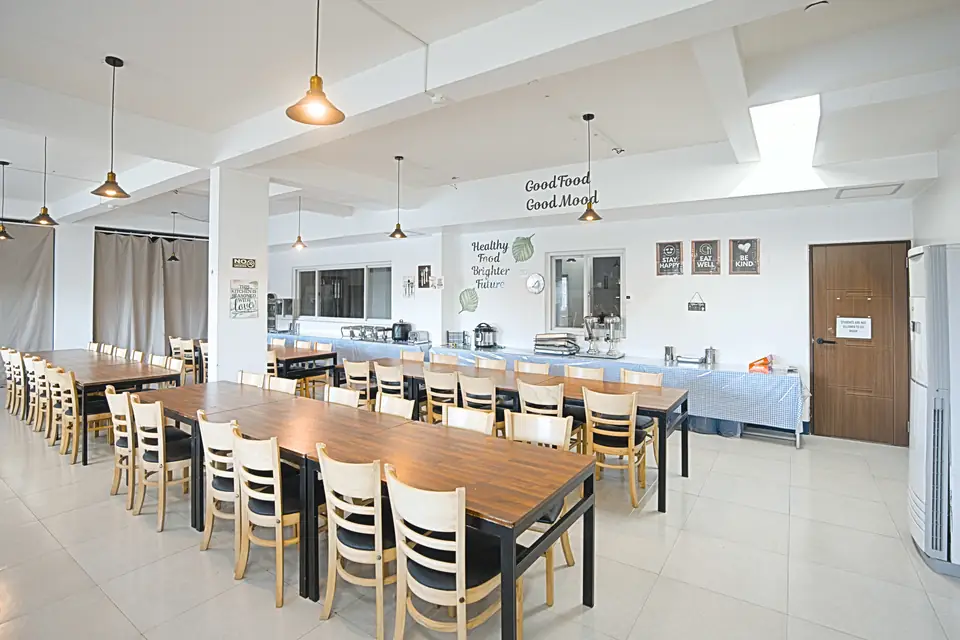
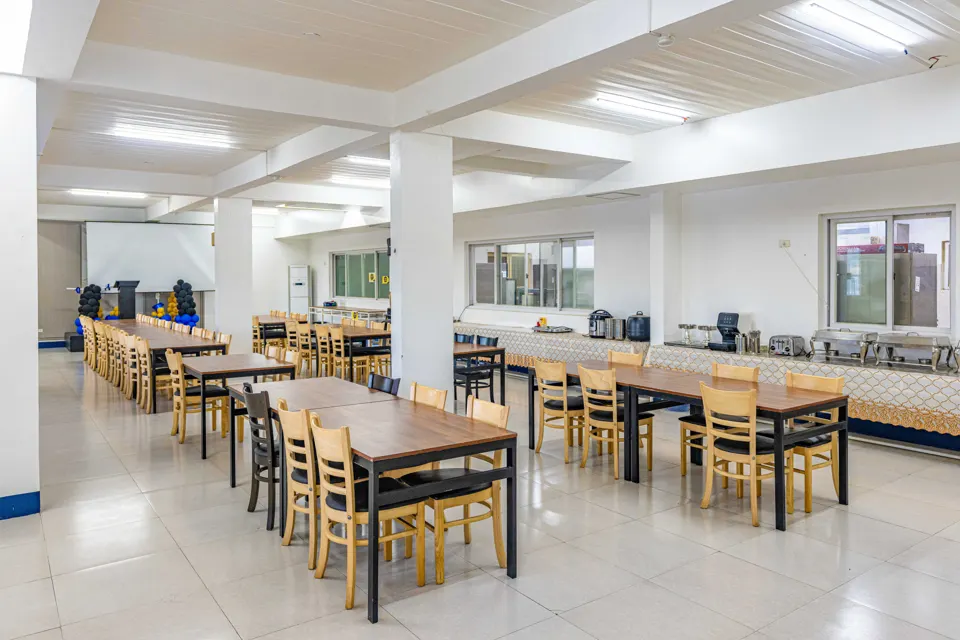
site: 겨울캠프: 첫 화면 요약 삭제·시크릿 특가 크게·선착순 30명, 숙소·식당 9월 새 사진, 액티비티 10곳(바베큐 빼고 사파리·알파 에비에이션 등), 문구 수정

diff --git a/winter-special/index.html b/winter-special/index.html
@@ -14,7 +14,7 @@
 <meta property="og:type" content="website">
 <link href="/media/core/favicon/75e134aa1716492e82ec588f702c37cd.png" rel="icon">
 <link rel="preload" as="image" href="/media/winter/hero-960.webp" imagesrcset="/media/winter/hero-960.webp 960w, /media/winter/hero.webp 1600w" imagesizes="100vw" fetchpriority="high">
-<link rel="stylesheet" href="/static/css/winter.css?v=20261114a">
+<link rel="stylesheet" href="/static/css/winter.css?v=20261115a">
 </head>
 <body>
 <header class="top"><a class="logo" href="/" aria-label="JH 아시아링크 홈"><img src="/static/images/logo.svg" alt="JH 아시아링크" width="44" height="44"><span>JH 아시아링크</span></a>
@@ -26,9 +26,8 @@
 <div class="hero-in">
 <h1>몇 번 안 남은 방학,<br>이번에도 그냥<br class="m"> 보내실 건가요?</h1>
 <p class="hero-lead">이번 겨울방학, 영어만이라도 확실하게.<br><b>1:1 밀착 영어캠프</b></p>
-<p class="hero-price">4주 <s>400만 원</s> <b>369만 원</b><span>2주 <s>240만 원</s> <b>219만 원</b></span></p>
-<p class="hero-facts">하루 7교시 중 1:1 4교시 · 2·4·6·8주 · 인솔 교사 동행</p>
-<p class="hero-hurry">소수정예라 선착순 마감 · <b>12월 6일 신청 마감</b></p>
+<p class="hero-price sp"><em>시크릿 특가</em><span class="row">4주 <s>400만 원</s> <b>369만 원</b></span><span class="row">2주 <s>240만 원</s> <b>219만 원</b></span></p>
+<p class="hero-hurry">선착순 30명 마감 · <b>12월 6일 신청 마감</b></p>
 <a class="btn btn-gold" href="#apply">맞춤 컨설턴트 영어캠프 코스 상담</a>
 <p class="hero-note">맞춤 컨설턴트가 24시간 이내 전화드려 상담해 드립니다</p>
 </div>
@@ -57,14 +56,14 @@
 <div class="reasons">
 <div><h3>유학원을 거치지 않아요</h3><p>대부분의 필리핀 캠프는 한국 유학원이 학생을 모아 현지 어학원에 보내요. 그 사이에 수수료가 붙어요. JH 아시아링크는 한국 사무실과 필리핀 캠퍼스를 저희가 직접 운영해요. 학부모님과 저희가 바로 계약하니 중간 수수료가 없어요.</p></div>
 <div><h3>캠퍼스를 저희가 직접 운영해요</h3><p>호텔이나 남의 건물을 빌려 여는 캠프와 달리, 수업·숙소·식사·생활 관리가 저희 건물 안에서 저희 손으로 이뤄져요.</p></div>
-<div><h3>소수정예라 군더더기가 없어요</h3><p>학생 수를 늘리는 대신 정원을 작게 두고, 그만큼 1:1 수업 시간을 늘렸어요.</p></div>
+<div><h3>소수정예라 한 명 한 명 집중 케어해요</h3><p>정원을 작게 두어 선생님과 매니저가 아이 한 명 한 명의 수업과 생활을 직접 챙겨요.</p></div>
 </div>
 </section>
 
 <section class="ch navy" id="class">
 <h2>1:1 수업만 하루 4시간</h2>
-<p class="big">1교시 50분 · 하루 7교시 · 그중 1:1이 4교시</p>
-<p>그룹 수업에서는 아이가 하루에 직접 말하는 시간이 몇 분 되지 않아요. 저희는 하루 200분을 선생님과 마주 앉아 말해요.</p>
+<p class="big">1:1만 4교시 · 1교시 50분</p>
+<p>그룹 수업에서는 아이가 하루에 직접 말하는 시간이 몇 분 되지 않아요.<br>저희는 하루 200분을 선생님과 마주 앉아 말해요.</p>
 <div class="split"><img src="/media/winter/one1.webp" alt="1:1 수업 교실" width="960" height="1440" loading="lazy" decoding="async">
 <ul class="plain">
 <li><b>말하는 시간이 다릅니다</b>수업 시간 내내 아이가 말해요. 다른 친구 차례를 기다릴 일이 없어요.</li>
@@ -153,9 +152,11 @@
 <h3>숙소는 어떤가요?</h3>
 <p>4인실과 2인실이 있어요. 빨래와 청소는 저희가 해 드려서 아이는 공부와 생활에만 신경 쓰면 돼요.</p>
 <div class="two"><img src="/media/winter/room4.webp" alt="4인실" width="960" height="640" loading="lazy" decoding="async"><img src="/media/winter/room2.webp" alt="2인실" width="960" height="640" loading="lazy" decoding="async"></div>
+<div class="two"><img src="/media/winter/room4b.webp" alt="4인실" width="960" height="640" loading="lazy" decoding="async"><img src="/media/winter/bath.webp" alt="방마다 있는 욕실" width="960" height="640" loading="lazy" decoding="async"></div>
 <h3>밥은 어떻게 먹나요?</h3>
 <p>캠퍼스 식당에서 세 끼를 먹고, 평일 저녁엔 간식도 나와요. 아래는 2026 여름캠프 때 실제로 나간 식단이에요.</p>
-<div class="two"><img src="/media/winter/dining.webp" alt="식당" width="960" height="640" loading="lazy" decoding="async"><img src="/media/winter/meal1.webp" alt="실제 식단" width="960" height="720" loading="lazy" decoding="async"></div>
+<div class="two"><img src="/media/winter/dining.webp" alt="식당" width="960" height="640" loading="lazy" decoding="async"><img src="/media/winter/dining2.webp" alt="식당" width="960" height="640" loading="lazy" decoding="async"></div>
+<div class="two"><img src="/media/winter/meal1.webp" alt="실제 식단" width="960" height="720" loading="lazy" decoding="async"><img src="/media/winter/meal4.webp" alt="실제 식단" width="960" height="1280" loading="lazy" decoding="async"></div>
 <div class="two"><img src="/media/winter/meal2.webp" alt="실제 식단" width="960" height="720" loading="lazy" decoding="async"><img src="/media/winter/meal3.webp" alt="실제 식단" width="960" height="1280" loading="lazy" decoding="async"></div>
 <h3>쉬는 시간엔 뭘 하나요?</h3>
 <p>교내 수영장에서 놀고, 매점에서 간식을 사 먹고, 놀이방에서 친구들과 어울려요. 저녁에는 자습실에서 그날 배운 단어를 외워요.</p>
@@ -178,7 +179,7 @@
 <div><dt>야간 감지 CCTV</dt><dd>밤에는 움직임이 잡히면 바로 경고음이 울려요.</dd></div>
 <div><dt>상주 인력</dt><dd>현지 직원과 한국인 매니저가 건물에 늘 함께 있어요.</dd></div>
 </dl>
-<p class="statement">문을 연 뒤 지금까지, 침입자는 단 한 번도 없었어요.</p>
+<p class="statement">문을 연 뒤 지금까지,<br>사건 사고는 단 한 번도 없었어요.</p>
 <img src="/media/winter/ext.webp" alt="캠퍼스 건물 외관" width="960" height="1440" loading="lazy" decoding="async" class="tall">
 </section>
 
@@ -208,14 +209,18 @@
 
 <section class="ch navy" id="saturday">
 <h2>토요일은 액티비티 하는 날<br>매주 다른 곳으로 떠나요</h2>
-<p>평일에 열심히 공부한 아이들은 토요일마다 밖으로 나가요. 교실에서 배운 영어를 직접 주문하고, 묻고, 대답하며 써 보는 날이기도 해요. 아래는 2026 캠프에서 실제로 다녀온 곳이에요.</p>
+<p>평일에 열심히 공부한 아이들은 토요일마다 밖으로 나가요. 교실에서 배운 영어를 직접 주문하고, 묻고, 대답하며 써 보는 날이기도 해요. 아래는 캠프 때 다니는 곳이에요.</p>
 <div class="acts">
-<figure class="act"><img src="/media/winter/yacht1.webp" alt="수빅 바다 요트 투어" width="960" height="720" loading="lazy" decoding="async"><figcaption><b>수빅 바다 요트 투어</b>수빅만 바다로 나가 요트를 타고 바다에 들어가 놀아요.</figcaption></figure>
-<figure class="act"><img src="/media/winter/aqua1.webp" alt="아쿠아플래닛 워터파크" width="960" height="720" loading="lazy" decoding="async"><figcaption><b>아쿠아플래닛 워터파크</b>클락의 큰 워터파크에서 하루 종일 놀아요.</figcaption></figure>
-<figure class="act"><img src="/media/winter/safari1.webp" alt="사파리 · 공룡 테마파크" width="960" height="720" loading="lazy" decoding="async"><figcaption><b>사파리 · 공룡 테마파크</b>동물을 가까이서 보고 공룡 테마파크를 둘러봐요.</figcaption></figure>
+<figure class="act"><img src="/media/winter/yacht1.webp" alt="수빅 요트 투어" width="960" height="720" loading="lazy" decoding="async"><figcaption><b>수빅 요트 투어</b>수빅만 바다로 나가 요트를 타고 바다에 들어가 놀아요.</figcaption></figure>
+<figure class="act"><img src="/media/winter/aqua1.webp" alt="클락 아쿠아플래닛" width="960" height="720" loading="lazy" decoding="async"><figcaption><b>클락 아쿠아플래닛</b>필리핀에서 가장 큰 워터파크에서 하루 종일 놀아요.</figcaption></figure>
+<figure class="act"><img src="/media/winter/a-safari.webp" alt="클락 사파리" width="500" height="600" loading="lazy" decoding="async"><figcaption><b>클락 사파리</b>기린, 사자 같은 동물을 가까이서 만나요.</figcaption></figure>
+<figure class="act"><img src="/media/winter/safari1.webp" alt="공룡 테마파크" width="960" height="720" loading="lazy" decoding="async"><figcaption><b>공룡 테마파크</b>사파리와 함께 공룡 테마파크도 둘러봐요.</figcaption></figure>
+<figure class="act"><img src="/media/winter/a-alpha.webp" alt="알파 에비에이션" width="500" height="500" loading="lazy" decoding="async"><figcaption><b>알파 에비에이션</b>클락 공항 안 비행 시뮬레이터로 조종사가 돼 봐요.</figcaption></figure>
+<figure class="act"><img src="/media/winter/a-sandbox.webp" alt="클락 샌드박스" width="960" height="640" loading="lazy" decoding="async"><figcaption><b>클락 샌드박스</b>짚라인과 로프 코스로 몸을 쓰며 놀아요.</figcaption></figure>
+<figure class="act"><img src="/media/winter/a-horse.webp" alt="엘 카바요 승마" width="500" height="500" loading="lazy" decoding="async"><figcaption><b>엘 카바요 승마</b>서부 마을 같은 곳에서 말을 타 봐요.</figcaption></figure>
+<figure class="act"><img src="/media/winter/a-forest.webp" alt="앙헬레스 포레스트 카페" width="500" height="500" loading="lazy" decoding="async"><figcaption><b>앙헬레스 포레스트 카페</b>숲속 수영장 카페에서 쉬어 가요.</figcaption></figure>
 <figure class="act"><img src="/media/winter/beach1.webp" alt="바타안 라키비치" width="960" height="720" loading="lazy" decoding="async"><figcaption><b>바타안 라키비치</b>바타안 해변으로 바다 여행을 떠나요.</figcaption></figure>
 <figure class="act"><img src="/media/winter/cafe1.webp" alt="라라가든 카페" width="960" height="960" loading="lazy" decoding="async"><figcaption><b>라라가든 카페</b>정원 카페에서 다 같이 쉬어 가요.</figcaption></figure>
-<figure class="act"><img src="/media/winter/bbq1.webp" alt="바베큐 파티" width="960" height="1280" loading="lazy" decoding="async"><figcaption><b>바베큐 파티</b>친구들, 선생님들과 함께 바베큐를 해요.</figcaption></figure>
 </div>
 <p class="fine">캠프마다 장소는 달라질 수 있어요. 액티비티 비용은 따로 안내해 드려요.</p>
 </section>
@@ -248,7 +253,7 @@
 <section class="ch navy apply" id="apply">
 <h2>맞춤 컨설턴트<br>영어캠프 코스 상담</h2>
 <p>우리 아이에게 맞는 코스를 제안해 드려요. 맞춤 컨설턴트가 24시간 이내 전화드려 상담해 드립니다.</p>
-<p class="hurry">소수정예라 선착순 마감 · <b>12월 6일 신청 마감</b></p>
+<p class="hurry">선착순 30명 마감 · <b>12월 6일 신청 마감</b></p>
 <form id="lead" novalidate data-source="winter-special">
 <label>학부모 성함 <em>필수</em><input name="parent_name" autocomplete="name" maxlength="40" required placeholder="예) 김민지"></label>
 <label>연락처 <em>필수</em><input name="phone" type="tel" inputmode="tel" autocomplete="tel" maxlength="20" required placeholder="예) 010-1234-5678"></label>
@@ -269,6 +274,6 @@
 </section>
 </main>
 <footer class="foot"><p class="foot-name">JH 아시아링크</p><p>아시아링크 잉글리시센터 · 대표자 윤현식 · 사업자등록번호 245-68-00578</p><p>서울특별시 서초구 서초대로73길 40, 7층 715호 · jhasialink@jhasialink.com</p><p><a href="/">홈페이지 보기</a></p></footer>
-<script src="/static/js/winter.js?v=20261114a" defer></script>
+<script src="/static/js/winter.js?v=20261115a" defer></script>
 </body>
 </html>

diff --git a/winter-camp/index.html b/winter-camp/index.html
@@ -14,7 +14,7 @@
 <meta property="og:type" content="website">
 <link href="/media/core/favicon/75e134aa1716492e82ec588f702c37cd.png" rel="icon">
 <link rel="preload" as="image" href="/media/winter/hero-960.webp" imagesrcset="/media/winter/hero-960.webp 960w, /media/winter/hero.webp 1600w" imagesizes="100vw" fetchpriority="high">
-<link rel="stylesheet" href="/static/css/winter.css?v=20261114a">
+<link rel="stylesheet" href="/static/css/winter.css?v=20261115a">
 </head>
 <body>
 <header class="top"><a class="logo" href="/" aria-label="JH 아시아링크 홈"><img src="/static/images/logo.svg" alt="JH 아시아링크" width="44" height="44"><span>JH 아시아링크</span></a>
@@ -27,8 +27,7 @@
 <h1>몇 번 안 남은 방학,<br>이번에도 그냥<br class="m"> 보내실 건가요?</h1>
 <p class="hero-lead">이번 겨울방학, 영어만이라도 확실하게.<br><b>1:1 밀착 영어캠프</b></p>
 <p class="hero-price">4주 <b>400만 원</b><span>2주 <b>240만 원</b>부터</span></p>
-<p class="hero-facts">하루 7교시 중 1:1 4교시 · 2·4·6·8주 · 인솔 교사 동행</p>
-<p class="hero-hurry">소수정예라 선착순 마감 · <b>12월 6일 신청 마감</b></p>
+<p class="hero-hurry">선착순 30명 마감 · <b>12월 6일 신청 마감</b></p>
 <a class="btn btn-gold" href="#apply">맞춤 컨설턴트 영어캠프 코스 상담</a>
 <p class="hero-note">맞춤 컨설턴트가 24시간 이내 전화드려 상담해 드립니다</p>
 </div>
@@ -57,14 +56,14 @@
 <div class="reasons">
 <div><h3>유학원을 거치지 않아요</h3><p>대부분의 필리핀 캠프는 한국 유학원이 학생을 모아 현지 어학원에 보내요. 그 사이에 수수료가 붙어요. JH 아시아링크는 한국 사무실과 필리핀 캠퍼스를 저희가 직접 운영해요. 학부모님과 저희가 바로 계약하니 중간 수수료가 없어요.</p></div>
 <div><h3>캠퍼스를 저희가 직접 운영해요</h3><p>호텔이나 남의 건물을 빌려 여는 캠프와 달리, 수업·숙소·식사·생활 관리가 저희 건물 안에서 저희 손으로 이뤄져요.</p></div>
-<div><h3>소수정예라 군더더기가 없어요</h3><p>학생 수를 늘리는 대신 정원을 작게 두고, 그만큼 1:1 수업 시간을 늘렸어요.</p></div>
+<div><h3>소수정예라 한 명 한 명 집중 케어해요</h3><p>정원을 작게 두어 선생님과 매니저가 아이 한 명 한 명의 수업과 생활을 직접 챙겨요.</p></div>
 </div>
 </section>
 
 <section class="ch navy" id="class">
 <h2>1:1 수업만 하루 4시간</h2>
-<p class="big">1교시 50분 · 하루 7교시 · 그중 1:1이 4교시</p>
-<p>그룹 수업에서는 아이가 하루에 직접 말하는 시간이 몇 분 되지 않아요. 저희는 하루 200분을 선생님과 마주 앉아 말해요.</p>
+<p class="big">1:1만 4교시 · 1교시 50분</p>
+<p>그룹 수업에서는 아이가 하루에 직접 말하는 시간이 몇 분 되지 않아요.<br>저희는 하루 200분을 선생님과 마주 앉아 말해요.</p>
 <div class="split"><img src="/media/winter/one1.webp" alt="1:1 수업 교실" width="960" height="1440" loading="lazy" decoding="async">
 <ul class="plain">
 <li><b>말하는 시간이 다릅니다</b>수업 시간 내내 아이가 말해요. 다른 친구 차례를 기다릴 일이 없어요.</li>
@@ -153,9 +152,11 @@
 <h3>숙소는 어떤가요?</h3>
 <p>4인실과 2인실이 있어요. 빨래와 청소는 저희가 해 드려서 아이는 공부와 생활에만 신경 쓰면 돼요.</p>
 <div class="two"><img src="/media/winter/room4.webp" alt="4인실" width="960" height="640" loading="lazy" decoding="async"><img src="/media/winter/room2.webp" alt="2인실" width="960" height="640" loading="lazy" decoding="async"></div>
+<div class="two"><img src="/media/winter/room4b.webp" alt="4인실" width="960" height="640" loading="lazy" decoding="async"><img src="/media/winter/bath.webp" alt="방마다 있는 욕실" width="960" height="640" loading="lazy" decoding="async"></div>
 <h3>밥은 어떻게 먹나요?</h3>
 <p>캠퍼스 식당에서 세 끼를 먹고, 평일 저녁엔 간식도 나와요. 아래는 2026 여름캠프 때 실제로 나간 식단이에요.</p>
-<div class="two"><img src="/media/winter/dining.webp" alt="식당" width="960" height="640" loading="lazy" decoding="async"><img src="/media/winter/meal1.webp" alt="실제 식단" width="960" height="720" loading="lazy" decoding="async"></div>
+<div class="two"><img src="/media/winter/dining.webp" alt="식당" width="960" height="640" loading="lazy" decoding="async"><img src="/media/winter/dining2.webp" alt="식당" width="960" height="640" loading="lazy" decoding="async"></div>
+<div class="two"><img src="/media/winter/meal1.webp" alt="실제 식단" width="960" height="720" loading="lazy" decoding="async"><img src="/media/winter/meal4.webp" alt="실제 식단" width="960" height="1280" loading="lazy" decoding="async"></div>
 <div class="two"><img src="/media/winter/meal2.webp" alt="실제 식단" width="960" height="720" loading="lazy" decoding="async"><img src="/media/winter/meal3.webp" alt="실제 식단" width="960" height="1280" loading="lazy" decoding="async"></div>
 <h3>쉬는 시간엔 뭘 하나요?</h3>
 <p>교내 수영장에서 놀고, 매점에서 간식을 사 먹고, 놀이방에서 친구들과 어울려요. 저녁에는 자습실에서 그날 배운 단어를 외워요.</p>
@@ -178,7 +179,7 @@
 <div><dt>야간 감지 CCTV</dt><dd>밤에는 움직임이 잡히면 바로 경고음이 울려요.</dd></div>
 <div><dt>상주 인력</dt><dd>현지 직원과 한국인 매니저가 건물에 늘 함께 있어요.</dd></div>
 </dl>
-<p class="statement">문을 연 뒤 지금까지, 침입자는 단 한 번도 없었어요.</p>
+<p class="statement">문을 연 뒤 지금까지,<br>사건 사고는 단 한 번도 없었어요.</p>
 <img src="/media/winter/ext.webp" alt="캠퍼스 건물 외관" width="960" height="1440" loading="lazy" decoding="async" class="tall">
 </section>
 
@@ -208,14 +209,18 @@
 
 <section class="ch navy" id="saturday">
 <h2>토요일은 액티비티 하는 날<br>매주 다른 곳으로 떠나요</h2>
-<p>평일에 열심히 공부한 아이들은 토요일마다 밖으로 나가요. 교실에서 배운 영어를 직접 주문하고, 묻고, 대답하며 써 보는 날이기도 해요. 아래는 2026 캠프에서 실제로 다녀온 곳이에요.</p>
+<p>평일에 열심히 공부한 아이들은 토요일마다 밖으로 나가요. 교실에서 배운 영어를 직접 주문하고, 묻고, 대답하며 써 보는 날이기도 해요. 아래는 캠프 때 다니는 곳이에요.</p>
 <div class="acts">
-<figure class="act"><img src="/media/winter/yacht1.webp" alt="수빅 바다 요트 투어" width="960" height="720" loading="lazy" decoding="async"><figcaption><b>수빅 바다 요트 투어</b>수빅만 바다로 나가 요트를 타고 바다에 들어가 놀아요.</figcaption></figure>
-<figure class="act"><img src="/media/winter/aqua1.webp" alt="아쿠아플래닛 워터파크" width="960" height="720" loading="lazy" decoding="async"><figcaption><b>아쿠아플래닛 워터파크</b>클락의 큰 워터파크에서 하루 종일 놀아요.</figcaption></figure>
-<figure class="act"><img src="/media/winter/safari1.webp" alt="사파리 · 공룡 테마파크" width="960" height="720" loading="lazy" decoding="async"><figcaption><b>사파리 · 공룡 테마파크</b>동물을 가까이서 보고 공룡 테마파크를 둘러봐요.</figcaption></figure>
+<figure class="act"><img src="/media/winter/yacht1.webp" alt="수빅 요트 투어" width="960" height="720" loading="lazy" decoding="async"><figcaption><b>수빅 요트 투어</b>수빅만 바다로 나가 요트를 타고 바다에 들어가 놀아요.</figcaption></figure>
+<figure class="act"><img src="/media/winter/aqua1.webp" alt="클락 아쿠아플래닛" width="960" height="720" loading="lazy" decoding="async"><figcaption><b>클락 아쿠아플래닛</b>필리핀에서 가장 큰 워터파크에서 하루 종일 놀아요.</figcaption></figure>
+<figure class="act"><img src="/media/winter/a-safari.webp" alt="클락 사파리" width="500" height="600" loading="lazy" decoding="async"><figcaption><b>클락 사파리</b>기린, 사자 같은 동물을 가까이서 만나요.</figcaption></figure>
+<figure class="act"><img src="/media/winter/safari1.webp" alt="공룡 테마파크" width="960" height="720" loading="lazy" decoding="async"><figcaption><b>공룡 테마파크</b>사파리와 함께 공룡 테마파크도 둘러봐요.</figcaption></figure>
+<figure class="act"><img src="/media/winter/a-alpha.webp" alt="알파 에비에이션" width="500" height="500" loading="lazy" decoding="async"><figcaption><b>알파 에비에이션</b>클락 공항 안 비행 시뮬레이터로 조종사가 돼 봐요.</figcaption></figure>
+<figure class="act"><img src="/media/winter/a-sandbox.webp" alt="클락 샌드박스" width="960" height="640" loading="lazy" decoding="async"><figcaption><b>클락 샌드박스</b>짚라인과 로프 코스로 몸을 쓰며 놀아요.</figcaption></figure>
+<figure class="act"><img src="/media/winter/a-horse.webp" alt="엘 카바요 승마" width="500" height="500" loading="lazy" decoding="async"><figcaption><b>엘 카바요 승마</b>서부 마을 같은 곳에서 말을 타 봐요.</figcaption></figure>
+<figure class="act"><img src="/media/winter/a-forest.webp" alt="앙헬레스 포레스트 카페" width="500" height="500" loading="lazy" decoding="async"><figcaption><b>앙헬레스 포레스트 카페</b>숲속 수영장 카페에서 쉬어 가요.</figcaption></figure>
 <figure class="act"><img src="/media/winter/beach1.webp" alt="바타안 라키비치" width="960" height="720" loading="lazy" decoding="async"><figcaption><b>바타안 라키비치</b>바타안 해변으로 바다 여행을 떠나요.</figcaption></figure>
 <figure class="act"><img src="/media/winter/cafe1.webp" alt="라라가든 카페" width="960" height="960" loading="lazy" decoding="async"><figcaption><b>라라가든 카페</b>정원 카페에서 다 같이 쉬어 가요.</figcaption></figure>
-<figure class="act"><img src="/media/winter/bbq1.webp" alt="바베큐 파티" width="960" height="1280" loading="lazy" decoding="async"><figcaption><b>바베큐 파티</b>친구들, 선생님들과 함께 바베큐를 해요.</figcaption></figure>
 </div>
 <p class="fine">캠프마다 장소는 달라질 수 있어요. 액티비티 비용은 따로 안내해 드려요.</p>
 </section>
@@ -248,7 +253,7 @@
 <section class="ch navy apply" id="apply">
 <h2>맞춤 컨설턴트<br>영어캠프 코스 상담</h2>
 <p>우리 아이에게 맞는 코스를 제안해 드려요. 맞춤 컨설턴트가 24시간 이내 전화드려 상담해 드립니다.</p>
-<p class="hurry">소수정예라 선착순 마감 · <b>12월 6일 신청 마감</b></p>
+<p class="hurry">선착순 30명 마감 · <b>12월 6일 신청 마감</b></p>
 <form id="lead" novalidate data-source="winter-camp">
 <label>학부모 성함 <em>필수</em><input name="parent_name" autocomplete="name" maxlength="40" required placeholder="예) 김민지"></label>
 <label>연락처 <em>필수</em><input name="phone" type="tel" inputmode="tel" autocomplete="tel" maxlength="20" required placeholder="예) 010-1234-5678"></label>
@@ -269,6 +274,6 @@
 </section>
 </main>
 <footer class="foot"><p class="foot-name">JH 아시아링크</p><p>아시아링크 잉글리시센터 · 대표자 윤현식 · 사업자등록번호 245-68-00578</p><p>서울특별시 서초구 서초대로73길 40, 7층 715호 · jhasialink@jhasialink.com</p><p><a href="/">홈페이지 보기</a></p></footer>
-<script src="/static/js/winter.js?v=20261114a" defer></script>
+<script src="/static/js/winter.js?v=20261115a" defer></script>
 </body>
 </html>

diff --git a/static/css/winter.css b/static/css/winter.css
@@ -36,7 +36,12 @@ h1{margin:0 0 18px;font-size:clamp(30px,6vw,68px);line-height:1.18;letter-spacin
 .hero-price s{opacity:.7}
 .hero-price span{display:block;font-size:18px}
 .hero-price span b{font-size:22px}
-.hero-hurry{margin:0 0 18px;font-size:16px}
+.hero-price.sp{margin:0 0 14px}
+.hero-price.sp em{display:inline-block;margin:0 0 6px;padding:4px 14px;border-radius:999px;background:var(--red);color:#fff;font:800 clamp(18px,4.6vw,24px)/1.3 inherit;font-style:normal}
+.hero-price.sp .row{display:block;font-size:clamp(20px,5vw,26px);line-height:1.25}
+.hero-price.sp .row b{font-size:clamp(46px,13vw,84px);color:var(--accent);letter-spacing:-.03em}
+.hero-price.sp .row+.row b{font-size:clamp(34px,9vw,56px)}
+.hero-hurry{margin:0 0 18px;font-size:17px;font-weight:700}
 .hero-hurry b{color:var(--accent)}
 .hero-note{margin:10px 0 0;font-size:14px;opacity:.85}
 
@@ -201,7 +206,7 @@ form .btn{width:100%}
 
 @media (min-width:720px){
   .reviews{columns:2}
-  .acts{grid-template-columns:repeat(3,1fr)}
+  .acts{grid-template-columns:repeat(5,1fr)}
   .mosaic{grid-template-columns:repeat(4,1fr)}
   .reasons{grid-template-columns:repeat(3,1fr)}
   .split{grid-template-columns:5fr 6fr;gap:48px}
